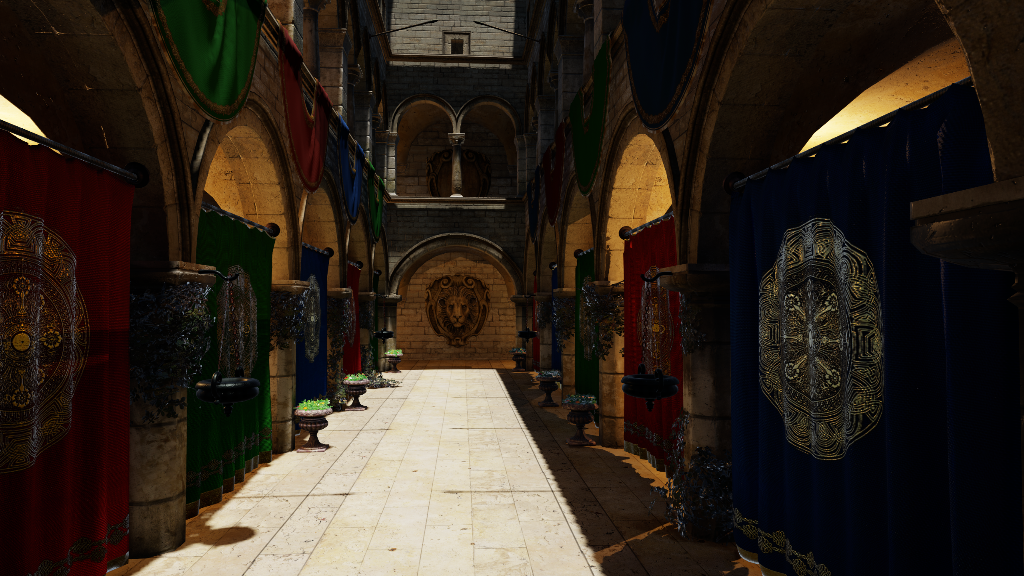
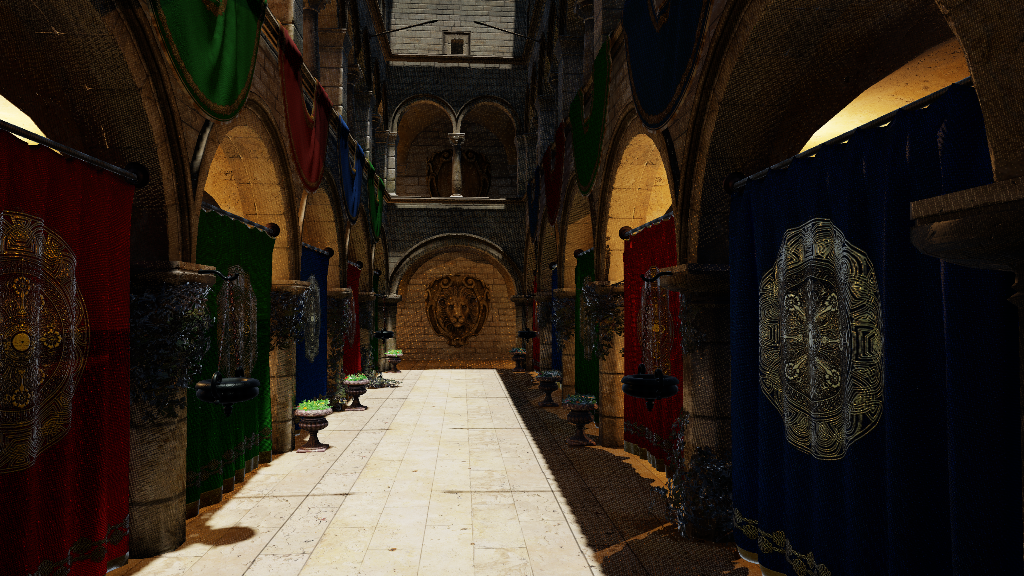
Teza: A/B slike sada stvarno pokazuju efekat koji tvrde
Parovi na slikama 3.3, 3.6, 4.3 i 4.4 bili su vizuelno identicni. Izmereno kao srednja
apsolutna razlika po pikselu (0-255), sa GI off/on kao kontrolom vidljive razlike (23.78):
senke 0.23, refleksije 0.16, denoise 0.64, spp 2.14.

Sum (4.3, 4.4): snimci koji treba da pokazu sirov sum ostavljali su TAA ukljucen i nisu
imali tvrdu granicu broja frejmova, pa je snimak cekao konvergenciju, a TAA je u
medjuvremenu usrednjio bas taj sum. Sada se snima sa AA=0 i granicom od 30 frejmova:
visokofrekventna energija ide 10.8/9.1/8.1/7.3 za 1/2/4/8 zrakova umesto ravnih 5.9, a
razlika sum-denoise raste sa 0.64 na 4.00. Slika 4.3 ide sa 4 panela na 0.235 sirine na
2 panela (1 i 8 zrakova) na 0.48, jer se na cetiri sicusna panela sum ne vidi ni kad
postoji. Metricki snimci (PSNR/SSIM/FLIP, flicker RMS) namerno zadrzavaju stare postavke
da brojevi vec upisani u tezu ostanu vazeci.

Senke (3.3): penumbra prati uglovnu velicinu izvora, a atrijum osvetljavaju tackasta
svetla ciji je source_radius podrazumevano 0.1 jedinice, pa je penumbra uza od piksela.
Snimljeno sa 1.5 jedinice (sunce ostaje na fizickih ~1 stepen): razlika 0.23 -> 2.42.
Uklonjen render.shadows.rays iz konfiguracije: hrani samo stohasticki prolaz, a
render.shadows.stochastic je podrazumevano iskljucen, pa mode 2 ide inline putanjom koja
broj zrakova uopste ne cita.

Refleksije (3.6): Sponza nema veliku glatku povrsinu, pa se cone_scale 0 vs 3 ne vidi
[…]

diff --git a/master-rad/teza/latex/chapters/04-analiza.tex b/master-rad/teza/latex/chapters/04-analiza.tex
@@ -199,18 +199,19 @@ this metric. The denoiser and temporal accumulation already recover most of the 
 from a single ray; once they are in the pipeline, additional samples per pixel are not where this
 engine's ray budget should go. This is consistent with the SVGF design goal (spatiotemporal
 filtering to make 1 sample per pixel viable) rather than a property specific to this
-implementation. Figure~\ref{fig:spp-sweep} shows the raw (pre-denoise, pre-temporal) noise this
-filtering is masking: the same four ray counts captured with the denoiser and temporal resolve both
-disabled, at 2 frames, so no accumulated history hides the per-frame noise.
+implementation. Figure~\ref{fig:spp-sweep} shows the raw noise this filtering is masking, at the two
+extremes of the sweep. The capture disables the denoiser, the temporal resolve, and TAA, and is cut
+off at a fixed 30-frame cap. Disabling TAA is what makes the figure honest: TAA is itself a temporal
+accumulator, so with it enabled the capture settles to the same high-frequency energy as the denoised
+image (5.9 in both cases) and the ray count appears to make no difference. With it off the ray count
+separates cleanly, from 10.8 at one ray per pixel to 7.3 at eight.
 
 \begin{figure}[tbp]
 \centering
-\includegraphics[width=0.235\textwidth]{figures/spp_sweep_1.png}\hfill%
-\includegraphics[width=0.235\textwidth]{figures/spp_sweep_2.png}\hfill%
-\includegraphics[width=0.235\textwidth]{figures/spp_sweep_4.png}\hfill%
-\includegraphics[width=0.235\textwidth]{figures/spp_sweep_8.png}
-\caption{Uticaj broja zraka po pikselu na \v{s}um pre denoise-a i pre temporalnog resolve-a (GI;
-redom 1, 2, 4, 8 zraka po pikselu, sleva nadesno): vi\v{s}e zraka konvergira ka referenci, uz
+\includegraphics[width=0.48\textwidth]{figures/spp_sweep_1.png}\hfill%
+\includegraphics[width=0.48\textwidth]{figures/spp_sweep_8.png}
+\caption{Uticaj broja zraka po pikselu na \v{s}um pre denoise-a, pre temporalnog resolve-a i bez TAA
+(GI; levo 1 zrak, desno 8 zrakova po pikselu): vi\v{s}e zraka konvergira ka referenci, uz
 proporcionalno ve\'cu cenu (Tabela~\ref{tab:raycount}).}
 \label{fig:spp-sweep}
 \end{figure}
@@ -262,8 +263,10 @@ runs at half resolution.
 \vspace{5pt}
 
 \includegraphics[width=0.62\textwidth]{figures/denoise_compare_reference.png}
-\caption{Doprinos denoiser-a na 2 zraka po pikselu: \v{s}um pre denoise-a (gore), denoise-ovan
-rezultat (sredina), i path-traced referenca (dole).}
+\caption{Rekonstrukcija na 2 zraka po pikselu: sirov signal bez denoiser-a, temporalnog resolve-a i
+TAA (gore), pun real-time rezultat sa sve tri komponente uklju\v{c}ene (sredina), i path-traced
+referenca (dole). Razlika gore-sredina je doprinos cele rekonstrukcije; doprinos samog denoiser-a
+izolovan je metrikama u tekstu, gde se vidi pre svega u temporalnoj stabilnosti.}
 \label{fig:denoise-compare}
 \end{figure}
 

diff --git a/master-rad/teza/latex/chapters/03-implementacija.tex b/master-rad/teza/latex/chapters/03-implementacija.tex
@@ -242,14 +242,20 @@ odgovara uglovnoj veli\v{c}ini izvora oko pravca $L$; udeo neblokiranih zraka da
 \label{fig:shadow}
 \end{figure}
 
-Figure~\ref{fig:shadow-hs} contrasts a hard and a soft shadow on the scene.
+Figure~\ref{fig:shadow-hs} contrasts a hard and a soft shadow on the scene. Penumbra width is set by
+the angular size of the source, \texttt{render.shadow.sun\_angle\_deg} for the directional light and
+\texttt{render.shadow.source\_radius} for the punctual ones. The atrium is lit mainly by punctual
+lights, and at the default 0.1-unit radius the penumbra is narrower than a pixel, so the two settings
+are indistinguishable; the figure therefore uses a 1.5-unit source, with the sun left at its physical
+angular diameter.
 
 \begin{figure}[tbp]
 \centering
 \includegraphics[width=0.48\textwidth]{figures/shadow_hard.png}\hfill%
 \includegraphics[width=0.48\textwidth]{figures/shadow_soft.png}
-\caption{Tvrde (levo, 1 zrak) naspram mekih (desno, 2 zraka + denoise) ray-traced senki; penumbra
-sledi uglovnu veli\v{c}inu izvora.}
+\caption{Tvrde (levo) naspram mekih (desno) ray-traced senki: jedina razlika je
+\texttt{render.shadow.soft}, pri polupre\v{c}niku izvora od 1,5 jedinice. Penumbra prati uglovnu
+veli\v{c}inu izvora, pa na podrazumevanih 0,1 jedinice ostaje u\v{z}a od piksela.}
 \label{fig:shadow-hs}
 \end{figure}
 
@@ -347,15 +353,21 @@ daje jedan o\v{s}tar zrak, a hrapava uzorkuje konus oko $R$.}
 \label{fig:refl}
 \end{figure}
 
-Figure~\ref{fig:refl-glossy} shows sharp versus glossy reflections.
+Figure~\ref{fig:refl-onoff} shows the contribution of the pass. The cone width itself is not
+separable by eye in this scene: Sponza's materials are texture-driven fabric and stone with no large
+low-roughness surface, so sweeping \texttt{render.reflections.cone\_scale} from 0 (a pure mirror ray)
+to 3 moves the frame by a mean 0.16/255 at the best of six camera poses tried, against 3.16 for
+enabling the pass at all. The cone is therefore documented by its formula rather than by a
+side-by-side, and the figure shows the pass off against on.
 
 \begin{figure}[tbp]
 \centering
-\includegraphics[width=0.48\textwidth]{figures/refl_sharp.png}\hfill%
-\includegraphics[width=0.48\textwidth]{figures/refl_glossy.png}
-\caption{O\v{s}tra (levo, konus \v{s}irine 0) naspram hrapave, glossy (desno) ray-traced
-refleksije, aproksimirane konusom po hrapavosti povr\v{s}ine.}
-\label{fig:refl-glossy}
+\includegraphics[width=0.48\textwidth]{figures/refl_off.png}\hfill%
+\includegraphics[width=0.48\textwidth]{figures/refl_rt.png}
+\caption{Bez refleksija (levo) naspram ray-traced refleksija (desno), pri uglu gledanja blizu
+tangentnog gde je Fresnel-ov doprinos najve\'ci. Sjaj na draperijama i kamenu je razlika koju
+donosi prolaz.}
+\label{fig:refl-onoff}
 \end{figure}
 
 \subsection{Globalno osvetljenje (GI)}
